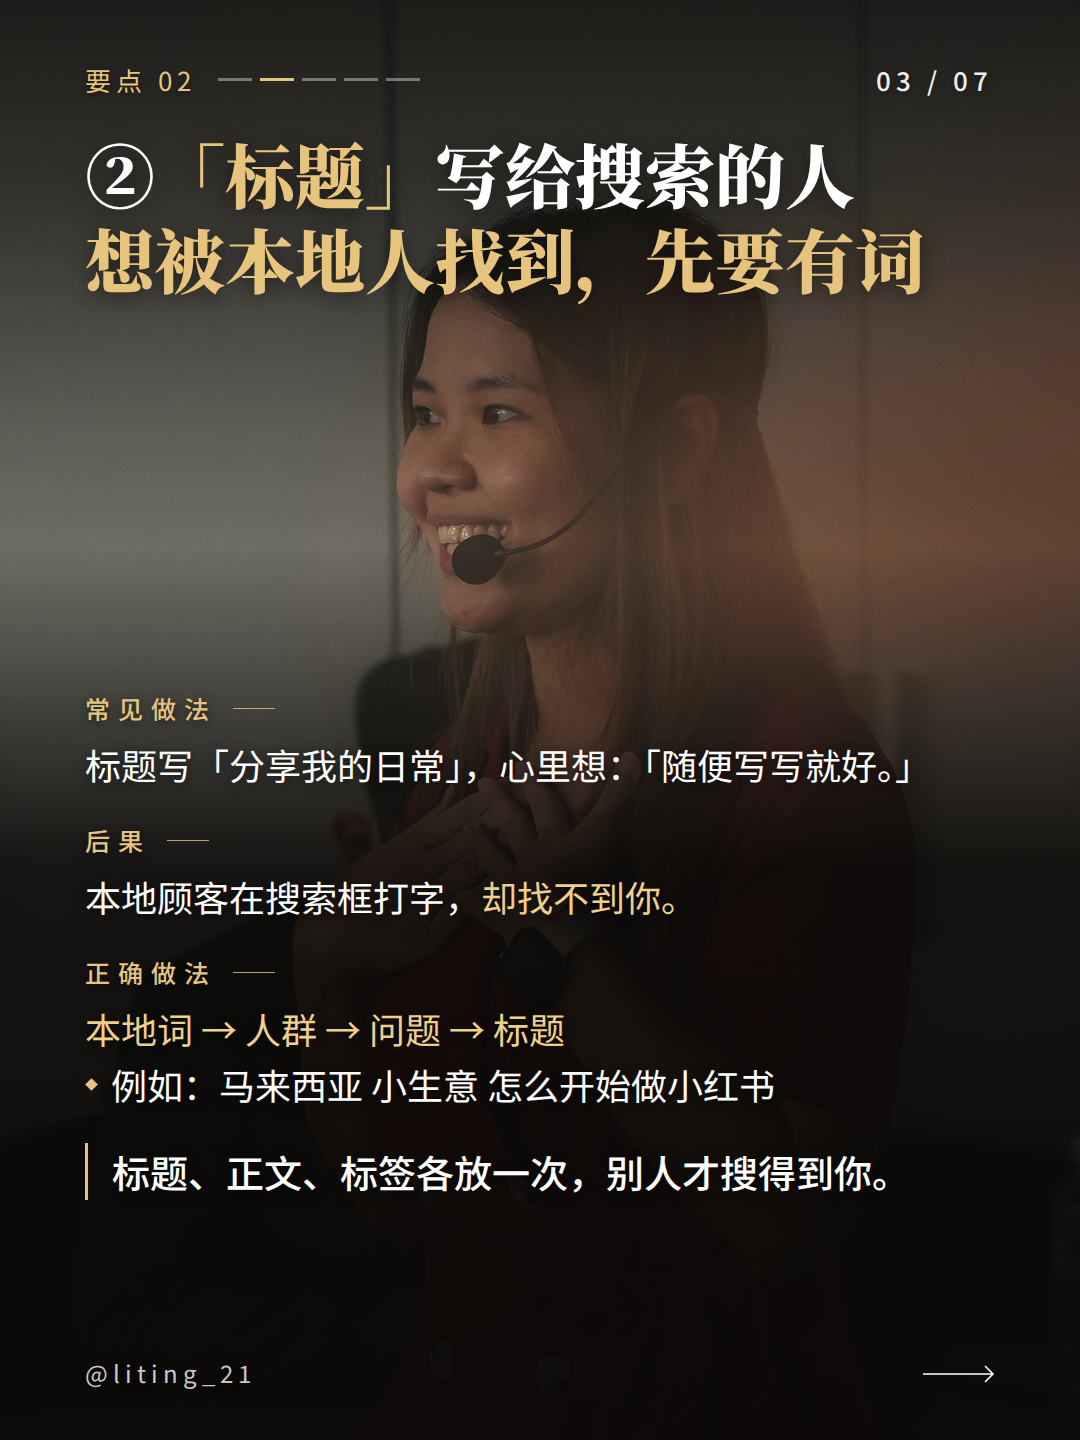
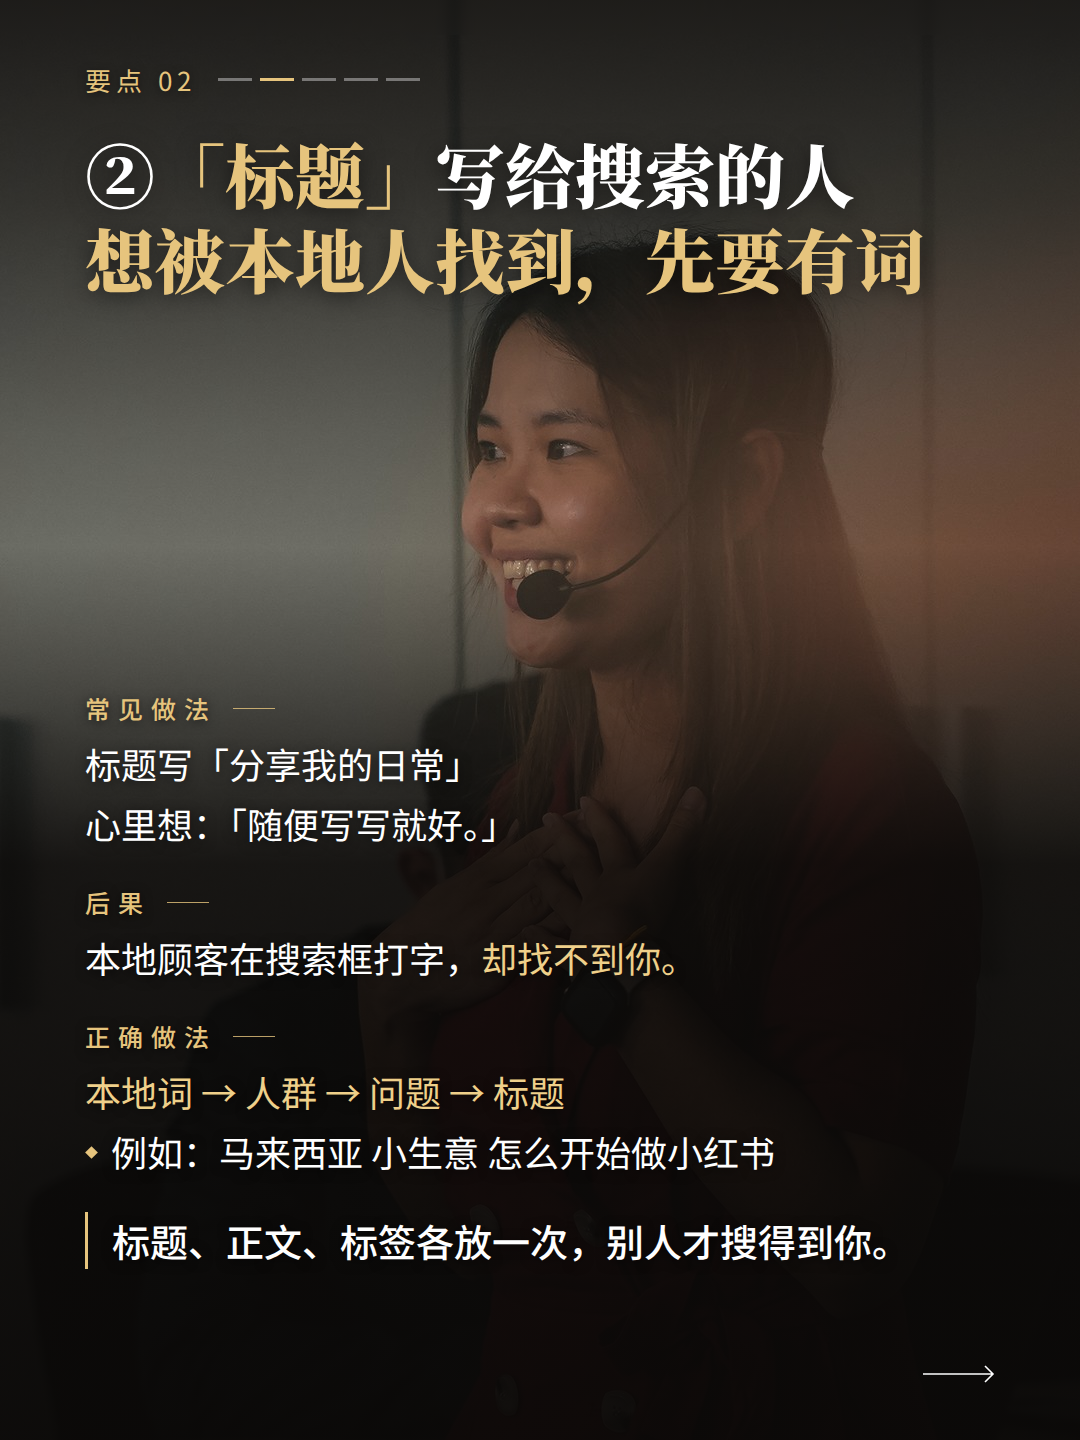
Carousel ep1 v4: drop handle and page number, keep text clear of the face, clearer paragraphs, remove other-platform wording
Claude-Session: https://claude.ai/code/session_01HRZxfCPWQYK6hRiC87aRnZ

diff --git a/carousel/shot.js b/carousel/shot.js
@@ -1,4 +1,7 @@
 const {chromium}=require('/opt/node22/lib/node_modules/playwright');
 (async()=>{const b=await chromium.launch();const p=await b.newPage({viewport:{width:1080,height:1440}});
-for(let i=1;i<=7;i++){await p.goto('file://'+process.cwd()+`/build/s${i}.html`);await p.evaluate(()=>document.fonts.ready);await p.waitForTimeout(1500);await p.screenshot({path:`out/slide${i}.png`});}
+for(let i=1;i<=7;i++){await p.goto('file://'+process.cwd()+`/build/s${i}.html`);await p.evaluate(()=>document.fonts.ready);await p.waitForTimeout(1500);
+const rects=await p.evaluate(()=>{const out=[];const w=document.createTreeWalker(document.body,NodeFilter.SHOW_TEXT);let n;while(n=w.nextNode()){if(!n.textContent.trim())continue;const r=document.createRange();r.selectNodeContents(n);for(const q of r.getClientRects())out.push([q.left,q.top,q.right,q.bottom,n.textContent.trim().slice(0,12)])}return out});
+require('fs').writeFileSync(`build/rects${i}.json`,JSON.stringify(rects));
+await p.screenshot({path:`out/slide${i}.png`});}
 await b.close()})()

diff --git a/carousel/render.py b/carousel/render.py
@@ -1,22 +1,31 @@
 # -*- coding: utf-8 -*-
 import re, os, html
 from PIL import Image, ImageOps, ImageEnhance, ImageFilter
-from copy import SLIDES
+from content import SLIDES
 SP="/tmp/claude-0/-home-claude-my-viral-radar/88fa76fe-e52b-5e73-a12f-e50faf6a33c6/scratchpad/ph/"
 HANDLE="@liting_21"; TOTAL=len(SLIDES); NPTS=sum(1 for s in SLIDES if s['kind']=="inner")
 os.makedirs("build",exist_ok=True); os.makedirs("out",exist_ok=True)
 FONT="node_modules/@fontsource/"
+import json
+TARGET={"cover":690,"inner":510,"summary":590}
 def prep(s):
     f=SP+s['photo']
     if not os.path.exists(f): f=SP+"new/"+s['photo']
     im=ImageOps.exif_transpose(Image.open(f)).convert('RGB')
-    W,H=1080,1440; sc=max(W/im.width,H/im.height)
+    W,H=1080,1440; sc=max(W/im.width,H/im.height)*s['zoom']
     im=im.resize((round(im.width*sc),round(im.height*sc)),Image.LANCZOS)
-    fx,fy=s['focus']; x=round((im.width-W)*fx/100); y=round((im.height-H)*fy/100)
-    im=im.crop((x,y,x+W,y+H)); dy=s['dy']
+    x0n,x1n,y0n,y1n=s['head']
+    fy0,fy1=y0n*im.height,y1n*im.height; fx0,fx1=x0n*im.width,x1n*im.width
+    cy=(fy0+fy1)/2; cx=(fx0+fx1)/2; tgt=TARGET[s['kind']]
+    y=round(cy-tgt); dy=0
+    if y<0: dy=min(-y,260); y=0
+    y=min(y,im.height-H)
+    x=min(max(round(cx-W/2),0),im.width-W)
+    crop=im.crop((x,y,x+W,y+H)); im=crop
     if dy:
-        c=Image.new('RGB',(W,H)); c.paste(im,(0,dy))
-        top=im.crop((0,0,W,dy)).transpose(Image.FLIP_TOP_BOTTOM).filter(ImageFilter.GaussianBlur(6)); c.paste(top,(0,0)); im=c
+        c=Image.new('RGB',(W,H)); c.paste(crop,(0,dy))
+        top=crop.crop((0,0,W,dy)).transpose(Image.FLIP_TOP_BOTTOM).filter(ImageFilter.GaussianBlur(6)); c.paste(top,(0,0)); im=c
+    json.dump(dict(l=fx0-x,r=fx1-x,t=fy0-y+dy,b=fy1-y+dy),open(f"build/face{s['n']}.json","w"))
     r,g,b=im.split(); r=r.point(lambda v:min(255,v*1.03)); b=b.point(lambda v:v*0.94)
     im=Image.merge('RGB',(r,g,b)); im=ImageEnhance.Color(im).enhance(0.94)
     im.save(f"build/p{s['n']}.jpg",quality=90)
@@ -41,14 +50,14 @@ body{width:1080px;height:1440px;background:#0b0908;font-family:'Noto Sans SC','W
 .body{position:absolute;left:85px;right:85px;text-shadow:0 2px 12px rgba(0,0,0,.65)}
 .lab{display:flex;align-items:center;gap:16px;font-size:25px;letter-spacing:8px;color:#e6c47d;margin-bottom:10px;font-weight:500}
 .lab:after{content:"";width:42px;height:1px;background:#e6c47d;opacity:.8}
-.sec{margin-bottom:30px}.sec p,.sec .b{font-size:36px;line-height:1.56;color:#fff;font-weight:400}
+.sec{margin-bottom:34px}.sec p,.sec .b{margin-bottom:6px;font-size:36px;line-height:1.5;color:#fff;font-weight:400}
 .b{position:relative;padding-left:26px}.b:before{content:"";position:absolute;left:2px;top:.66em;width:9px;height:9px;background:#e6c47d;transform:rotate(45deg)}
 .call{border-left:3px solid #e6c47d;padding-left:24px;font-size:38px;line-height:1.5;font-weight:500;margin-top:10px}
 /* cover */
 .cover .shade{background:linear-gradient(180deg,rgba(10,8,7,.62) 0%,rgba(10,8,7,.30) 20%,rgba(10,8,7,0) 34%,rgba(10,8,7,0) 52%,rgba(10,8,7,.80) 68%,rgba(10,8,7,.93) 100%)}
 .cover .title{top:128px;font-size:116px;line-height:1.14}
 .cover .rule{position:absolute;left:85px;top:440px;width:88px;height:3px;background:#e6c47d}
-.cover .body{top:1000px}.cover .body{right:60px}.cover .body p{font-size:32px;line-height:1.55;margin-bottom:20px;color:#fff}
+.cover .body{top:1000px}.cover .body{right:60px}.cover .body p{font-size:33px;line-height:1.55;margin-bottom:26px;color:#fff}
 /* inner */
 .inner .shade{background:linear-gradient(180deg,rgba(10,8,7,.78) 0%,rgba(10,8,7,.55) 14%,rgba(10,8,7,.14) 30%,rgba(10,8,7,0) 38%,rgba(10,8,7,.30) 46%,rgba(10,8,7,.86) 60%,rgba(10,8,7,.94) 100%)}
 .inner .title{top:130px;font-size:70px;line-height:1.22}
@@ -57,7 +66,7 @@ body{width:1080px;height:1440px;background:#0b0908;font-family:'Noto Sans SC','W
 .summary .shade{background:linear-gradient(180deg,rgba(10,8,7,.72) 0%,rgba(10,8,7,.45) 14%,rgba(10,8,7,.10) 30%,rgba(10,8,7,0) 38%,rgba(10,8,7,.35) 50%,rgba(10,8,7,.88) 62%,rgba(10,8,7,.94) 100%)}
 .summary .title{top:130px;font-size:84px;line-height:1.2}
 .summary .rule{position:absolute;left:85px;top:372px;width:88px;height:3px;background:#e6c47d}
-.summary .body{top:750px}
+.summary .body{top:790px}
 .li{display:flex;align-items:baseline;gap:22px;font-size:35px;line-height:1.5;margin-bottom:10px}.li b{font-family:'Noto Serif SC',serif;font-weight:700;color:#e6c47d;font-size:36px}
 .summary .para{font-size:36px;line-height:1.5;font-weight:500;margin-top:14px}
 .btn{display:inline-block;margin-top:26px;border:2px solid #e6c47d;color:#fff;font-size:30px;font-weight:500;letter-spacing:3px;padding:16px 40px;background:rgba(10,8,7,.35)}
@@ -66,7 +75,7 @@ LINKS="".join(f'<link rel=stylesheet href="../node_modules/@fontsource/{f}.css">
 ARROW='<svg class=arrow width="72" height="20" viewBox="0 0 72 20"><path d="M0 10H70M62 2l8 8-8 8" fill="none" stroke="#fff" stroke-width="1.6"/></svg>'
 for s in SLIDES:
     prep(s); k=s['kind']; n=s['n']
-    top=f'<div class=top><div class=kick>'+(f'要点 {n-1:02d}<span class=dash>'+"".join(f'<i class="{"on" if i==n-2 else ""}"></i>' for i in range(NPTS))+'</span>' if k=="inner" else '')+f'</div><div class=pg>{n:02d} / {TOTAL:02d}</div></div>'
+    top=f'<div class=top><div class=kick>'+(f'要点 {n-1:02d}<span class=dash>'+"".join(f'<i class="{"on" if i==n-2 else ""}"></i>' for i in range(NPTS))+'</span>' if k=="inner" else '')+f'</div></div>'
     out=[]
     for b in s['blocks']:
         t=b[0]
@@ -74,10 +83,10 @@ for s in SLIDES:
         elif t=="call": out.append(f'<div class=call>{Y(b[1])}</div>')
         elif t=="sec": out.append(f'<div class=sec><div class=lab>{b[1]}</div>'+"".join(f'<div class="{ "b" if ty=="b" else "pp"}">{Y(tx)}</div>' if ty=="b" else f'<p>{Y(tx)}</p>' for ty,tx in b[2])+'</div>')
         elif t=="list": out.append("".join(f'<div class=li><b>{a}</b><span>{html.escape(x)}</span></div>' for a,x in b[1]))
-        elif t=="btn": out.append(f'<div class=btn>{b[1]}　{HANDLE}</div>')
+        elif t=="btn": out.append(f'<div class=btn>{b[1]}</div>')
     rule='<div class=rule></div>' if k in("cover","summary") else ''
     arrow=ARROW if n<TOTAL else ''
     open(f"build/s{n}.html","w").write(f"""<!doctype html><meta charset=utf-8>{LINKS}<style>{CSS}</style><body class="{k}">
 <div class=ph style="background-image:url(p{n}.jpg)"></div><div class=shade></div>{top}
 <div class=title>{title(s['t1'],s['t2'])}</div>{rule}<div class=body>{''.join(out)}</div>
-<div class=foot>{HANDLE}</div>{arrow}</body>""")
+{arrow}</body>""")

diff --git a/carousel/content.py b/carousel/content.py
@@ -1,0 +1,51 @@
+# -*- coding: utf-8 -*-
+# 每页：t1 白（key 用金）、t2 金；blocks: ("sec", 标签, [("p"|"b", 文字)]) / ("call", 文字) / ("para", 文字)
+import re
+SLIDES = [
+ dict(n=1, kind="cover", photo="IMG_6769.DNG", head=(.33,.60,.26,.52), zoom=1.0, t1="浏览才100多？", t2="先查这5个地方", blocks=[
+  ("para","你每天认真拍图、写文案，一篇接一篇地发。"),
+  ("para","结果浏览只有100多，没人收藏，没人留言，也没人来问。"),
+  ("para","【黄】越发越累，越发越没信心。【/黄】"),
+  ("para","其实不是你不够努力，而是你还没搞懂，\n【黄】流量是一关一关过的。【/黄】")]),
+ dict(n=2, kind="inner", photo="IMG_3175.JPG", head=(.46,.68,.22,.42), zoom=1.0, t1="①「封面」决定点不点开", t2="没人点开，内容再好也白写", blocks=[
+  ("sec","常见做法",[("p","封面随手挑一张照片"),("p","心里想：「内容好就行，别人会看到的。」")]),
+  ("sec","后果",[("p","读者划得很快，【黄】没被抓住就不会点开。【/黄】")]),
+  ("sec","正确做法",[("p","封面写清「谁、什么问题、得到什么」"),("p","再放一个数字")]),
+  ("call","【黄】先让人停下来，内容才有机会被看见。【/黄】")]),
+ dict(n=3, kind="inner", photo="DSC07520.jpg", head=(.24,.40,.21,.45), zoom=1.0, t1="②「标题」写给搜索的人", t2="想被本地人找到，先要有词", blocks=[
+  ("sec","常见做法",[("p","标题写「分享我的日常」"),("p","心里想：「随便写写就好。」")]),
+  ("sec","后果",[("p","本地顾客在搜索框打字，【黄】却找不到你。【/黄】")]),
+  ("sec","正确做法",[("p","【黄】本地词 → 人群 → 问题 → 标题【/黄】"),("b","例如：马来西亚 小生意 怎么开始做小红书")]),
+  ("call","标题、正文、标签各放一次，别人才搜得到你。")]),
+ dict(n=4, kind="inner", photo="IMG_0925.JPG", head=(.43,.62,.34,.50), zoom=1.2, t1="③「开头」先说痛点", t2="别急着介绍你自己", blocks=[
+  ("sec","常见做法",[("p","开头写「大家好，我是某某」"),("p","心里想：「先让大家认识我。」")]),
+  ("sec","后果",[("p","读者还不认识你，"),("p","【黄】只觉得与他无关，直接划走。【/黄】")]),
+  ("sec","正确做法",[("p","【黄】痛点 → 共鸣 → 方法 → 再认识你【/黄】"),("b","开头例如：做了半年，只有100多个浏览？")]),
+  ("call","【黄】先讲他的事，他才想知道你是谁。【/黄】")]),
+ dict(n=5, kind="inner", photo="DSC07509.jpg", head=(.38,.64,.31,.55), zoom=1.0, t1="④「评论区」也是内容", t2="回得用心，才有人愿意开口", blocks=[
+  ("sec","常见做法",[("p","发完笔记就关掉"),("p","心里想：「没人问我，我回什么？」")]),
+  ("sec","后果",[("p","读者觉得你不在，【黄】对话停在了开头。【/黄】")]),
+  ("sec","正确做法",[("p","自己先留一条问题，再逐条回复"),("b","例如：你想先改封面，还是标题？")]),
+  ("call","【黄】你多回一句，别人就多一次开口的机会。【/黄】")]),
+ dict(n=6, kind="inner", photo="IMG_3729.JPG", head=(.42,.62,.37,.48), zoom=1.3, t1="⑤「先给价值」再谈产品", t2="有了信任，才轮到你卖东西", blocks=[
+  ("sec","常见做法",[("p","把推销图原样搬来小红书"),("p","心里想：「先推销，有需要的人会找我。」")]),
+  ("sec","后果",[("p","【黄】读者只看到推销，看不到你这个人。【/黄】")]),
+  ("sec","正确做法",[("p","【黄】给方法 → 被信任 → 愿意问 → 才谈产品【/黄】"),("b","笔记里只讲方法，想了解的人自己来留言")]),
+  ("call","先给方法，再谈产品。")]),
+ dict(n=7, kind="summary", photo="IMG_6769.DNG", head=(.33,.60,.26,.52), zoom=1.0, t1="这5个地方，", t2="你想先改哪一个？", blocks=[
+  ("list",[("01","封面，决定点不点开"),("02","标题，要带本地关键词"),("03","开头，先说读者的痛点"),("04","评论，多回一句就多一次对话"),("05","价值，先给方法再谈产品")]),
+  ("para","留言告诉我，你想先改哪一个？"),
+  ("para","【黄】收藏这篇，改笔记时对照着看。【/黄】"),
+  ("btn","关注我，下一篇继续讲")]),
+]
+def plain(b):
+    k=b[0]
+    if k in("para","call"): return b[1]
+    if k=="sec": return "".join(t for _,t in b[2])
+    if k=="list": return "".join(a+t for a,t in b[1]) if False else "".join(t for _,t in b[1])
+    if k=="btn": return b[1]
+    return ""
+def count(blocks):
+    return len(re.sub(r"【/?黄】|\s","","".join(plain(b) for b in blocks)))
+if __name__=="__main__":
+    for s in SLIDES: print(s['n'], count(s['blocks']), len(re.sub(r"\s","",s['t1']+s['t2'])))

diff --git a/carousel/check.py b/carousel/check.py
@@ -1,0 +1,9 @@
+import json
+bad=0
+for n in range(1,8):
+    f=json.load(open(f"build/face{n}.json")); R=json.load(open(f"build/rects{n}.json"))
+    mx=max(r[3] for r in R if r[1]<1360)
+    hit=[r for r in R if r[0]<f['r']+6 and r[2]>f['l']-6 and r[1]<f['b']+6 and r[3]>f['t']-6]
+    print(n,"face",{k:round(v) for k,v in f.items()},"text bottom",round(mx),"overlap:",[h[4] for h in hit])
+    bad+=len(hit)
+print("OVERLAPS",bad)
